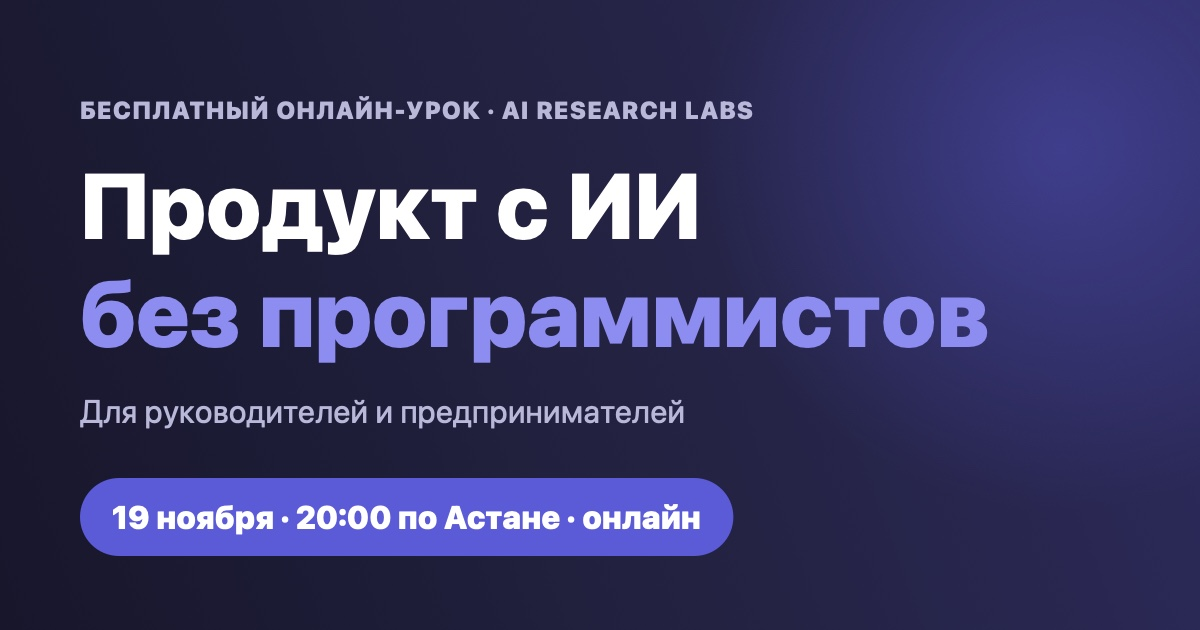
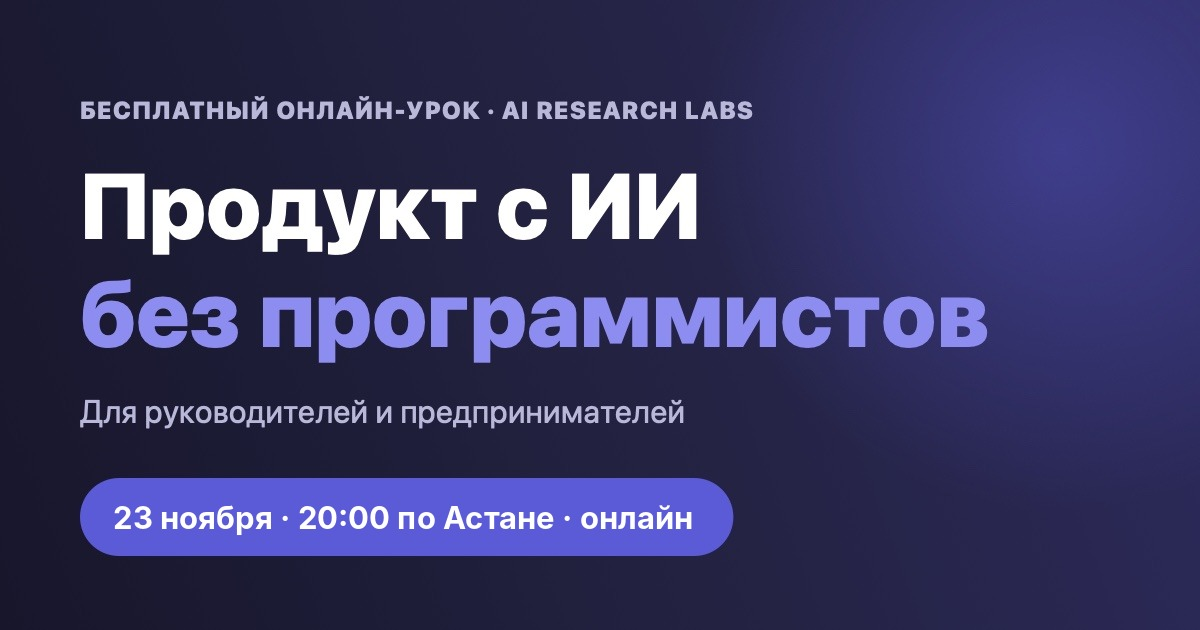
Online lesson: move date to Monday 23 November, 20:00
Claude-Session: https://claude.ai/code/session_01R4xGERtEVV3MJaYTtz6F1f

Changed region(s): [[0.0925, 0.7841, 0.5858, 0.8444]]

diff --git a/online/index.html b/online/index.html
@@ -3,8 +3,8 @@
   <head>
     <meta charset="UTF-8" />
     <meta name="viewport" content="width=device-width, initial-scale=1.0" />
-    <title>Бесплатный онлайн-урок 19 ноября — AI Research Labs</title>
-    <meta name="description" content="Бесплатный онлайн-урок AI Research Labs: как руководители и предприниматели без опыта в коде собирают рабочие продукты с ИИ. 19 ноября, 20:00 по Астане." />
+    <title>Бесплатный онлайн-урок 23 ноября — AI Research Labs</title>
+    <meta name="description" content="Бесплатный онлайн-урок AI Research Labs: как руководители и предприниматели без опыта в коде собирают рабочие продукты с ИИ. 23 ноября, 20:00 по Астане." />
     <meta name="theme-color" content="#17162b" />
     <link rel="icon" type="image/png" href="/ai-for-work/workshop/favicon.png" />
     <link rel="apple-touch-icon" href="/ai-for-work/workshop/apple-touch-icon.png" />
@@ -14,9 +14,9 @@
     <meta property="og:locale" content="ru_RU" />
     <meta property="og:site_name" content="AI Research Labs" />
     <meta property="og:title" content="Бесплатный онлайн-урок: продукт с ИИ без программистов" />
-    <meta property="og:description" content="19 ноября, 20:00 по Астане. Покажем, как собрать рабочий инструмент для бизнеса с ИИ — без кода." />
+    <meta property="og:description" content="23 ноября, 20:00 по Астане. Покажем, как собрать рабочий инструмент для бизнеса с ИИ — без кода." />
     <meta property="og:url" content="https://online.airl.kz/" />
-    <meta property="og:image" content="https://online.airl.kz/online/og-image.jpg" />
+    <meta property="og:image" content="https://online.airl.kz/online/og-image.jpg?v=23nov" />
     <meta property="og:image:width" content="1200" />
     <meta property="og:image:height" content="630" />
     <meta name="twitter:card" content="summary_large_image" />
@@ -70,7 +70,7 @@
             без опыта в коде собирают рабочие инструменты для своего бизнеса, — и с чего начать вам.
           </p>
           <ul class="hero__stats">
-            <li><strong>19 ноября</strong><span>Четверг, 20:00 по Астане</span></li>
+            <li><strong>23 ноября</strong><span>Понедельник, 20:00 по Астане</span></li>
             <li><strong>Онлайн</strong><span>Смотрите из любого города</span></li>
             <li><strong>Бесплатно</strong><span>Нужна только регистрация</span></li>
           </ul>
@@ -234,7 +234,7 @@
       <section class="container section" id="final-cta">
         <div class="final">
           <div>
-            <h2 class="final__title">Встречаемся 19 ноября в 20:00</h2>
+            <h2 class="final__title">Встречаемся 23 ноября в 20:00</h2>
             <p class="final__text">
               Бесплатный онлайн-урок AI Research Labs. Зарегистрируйтесь и вступите в сообщество WhatsApp — туда
               пришлём ссылку на трансляцию и напоминание перед началом.
@@ -253,14 +253,14 @@
     </footer>
 
     <div class="sticky-cta" aria-hidden="true">
-      <button class="btn btn--lg" type="button" data-open-form tabindex="-1">Бесплатный урок 19 ноября — регистрация</button>
+      <button class="btn btn--lg" type="button" data-open-form tabindex="-1">Бесплатный урок 23 ноября — регистрация</button>
     </div>
 
     <dialog class="modal" id="lead-modal" aria-labelledby="lead-title">
       <button class="modal__close" type="button" data-close-form aria-label="Закрыть">×</button>
 
       <form class="lead-form" id="lead-form" novalidate>
-        <h2 class="modal__title" id="lead-title">Регистрация на онлайн-урок 19 ноября</h2>
+        <h2 class="modal__title" id="lead-title">Регистрация на онлайн-урок 23 ноября</h2>
         <p class="modal__sub">Урок бесплатный, начало в 20:00 по Астане. Ссылку на трансляцию пришлём в сообществе WhatsApp.</p>
 
         <label class="field">

diff --git a/online/thankpage/index.html b/online/thankpage/index.html
@@ -40,7 +40,7 @@
       <div class="thank__card lead-done">
         <div class="lead-done__icon" aria-hidden="true">✓</div>
         <h1 id="thank-title">Вы зарегистрированы!</h1>
-        <p class="thank__when">Онлайн-урок · 19 ноября, четверг, 20:00 по Астане</p>
+        <p class="thank__when">Онлайн-урок · 23 ноября, понедельник, 20:00 по Астане</p>
         <p id="thank-text">Вступите в сообщество WhatsApp — туда пришлём ссылку на трансляцию и напоминание перед началом.</p>
         <a class="btn btn--lg btn--block" id="thank-wa" href="https://chat.whatsapp.com/C7BneuIReakDO1O6pxVDV4">Вступить в сообщество WhatsApp</a>
         <a class="link-btn" id="thank-back" href="/">Вернуться на страницу</a>
